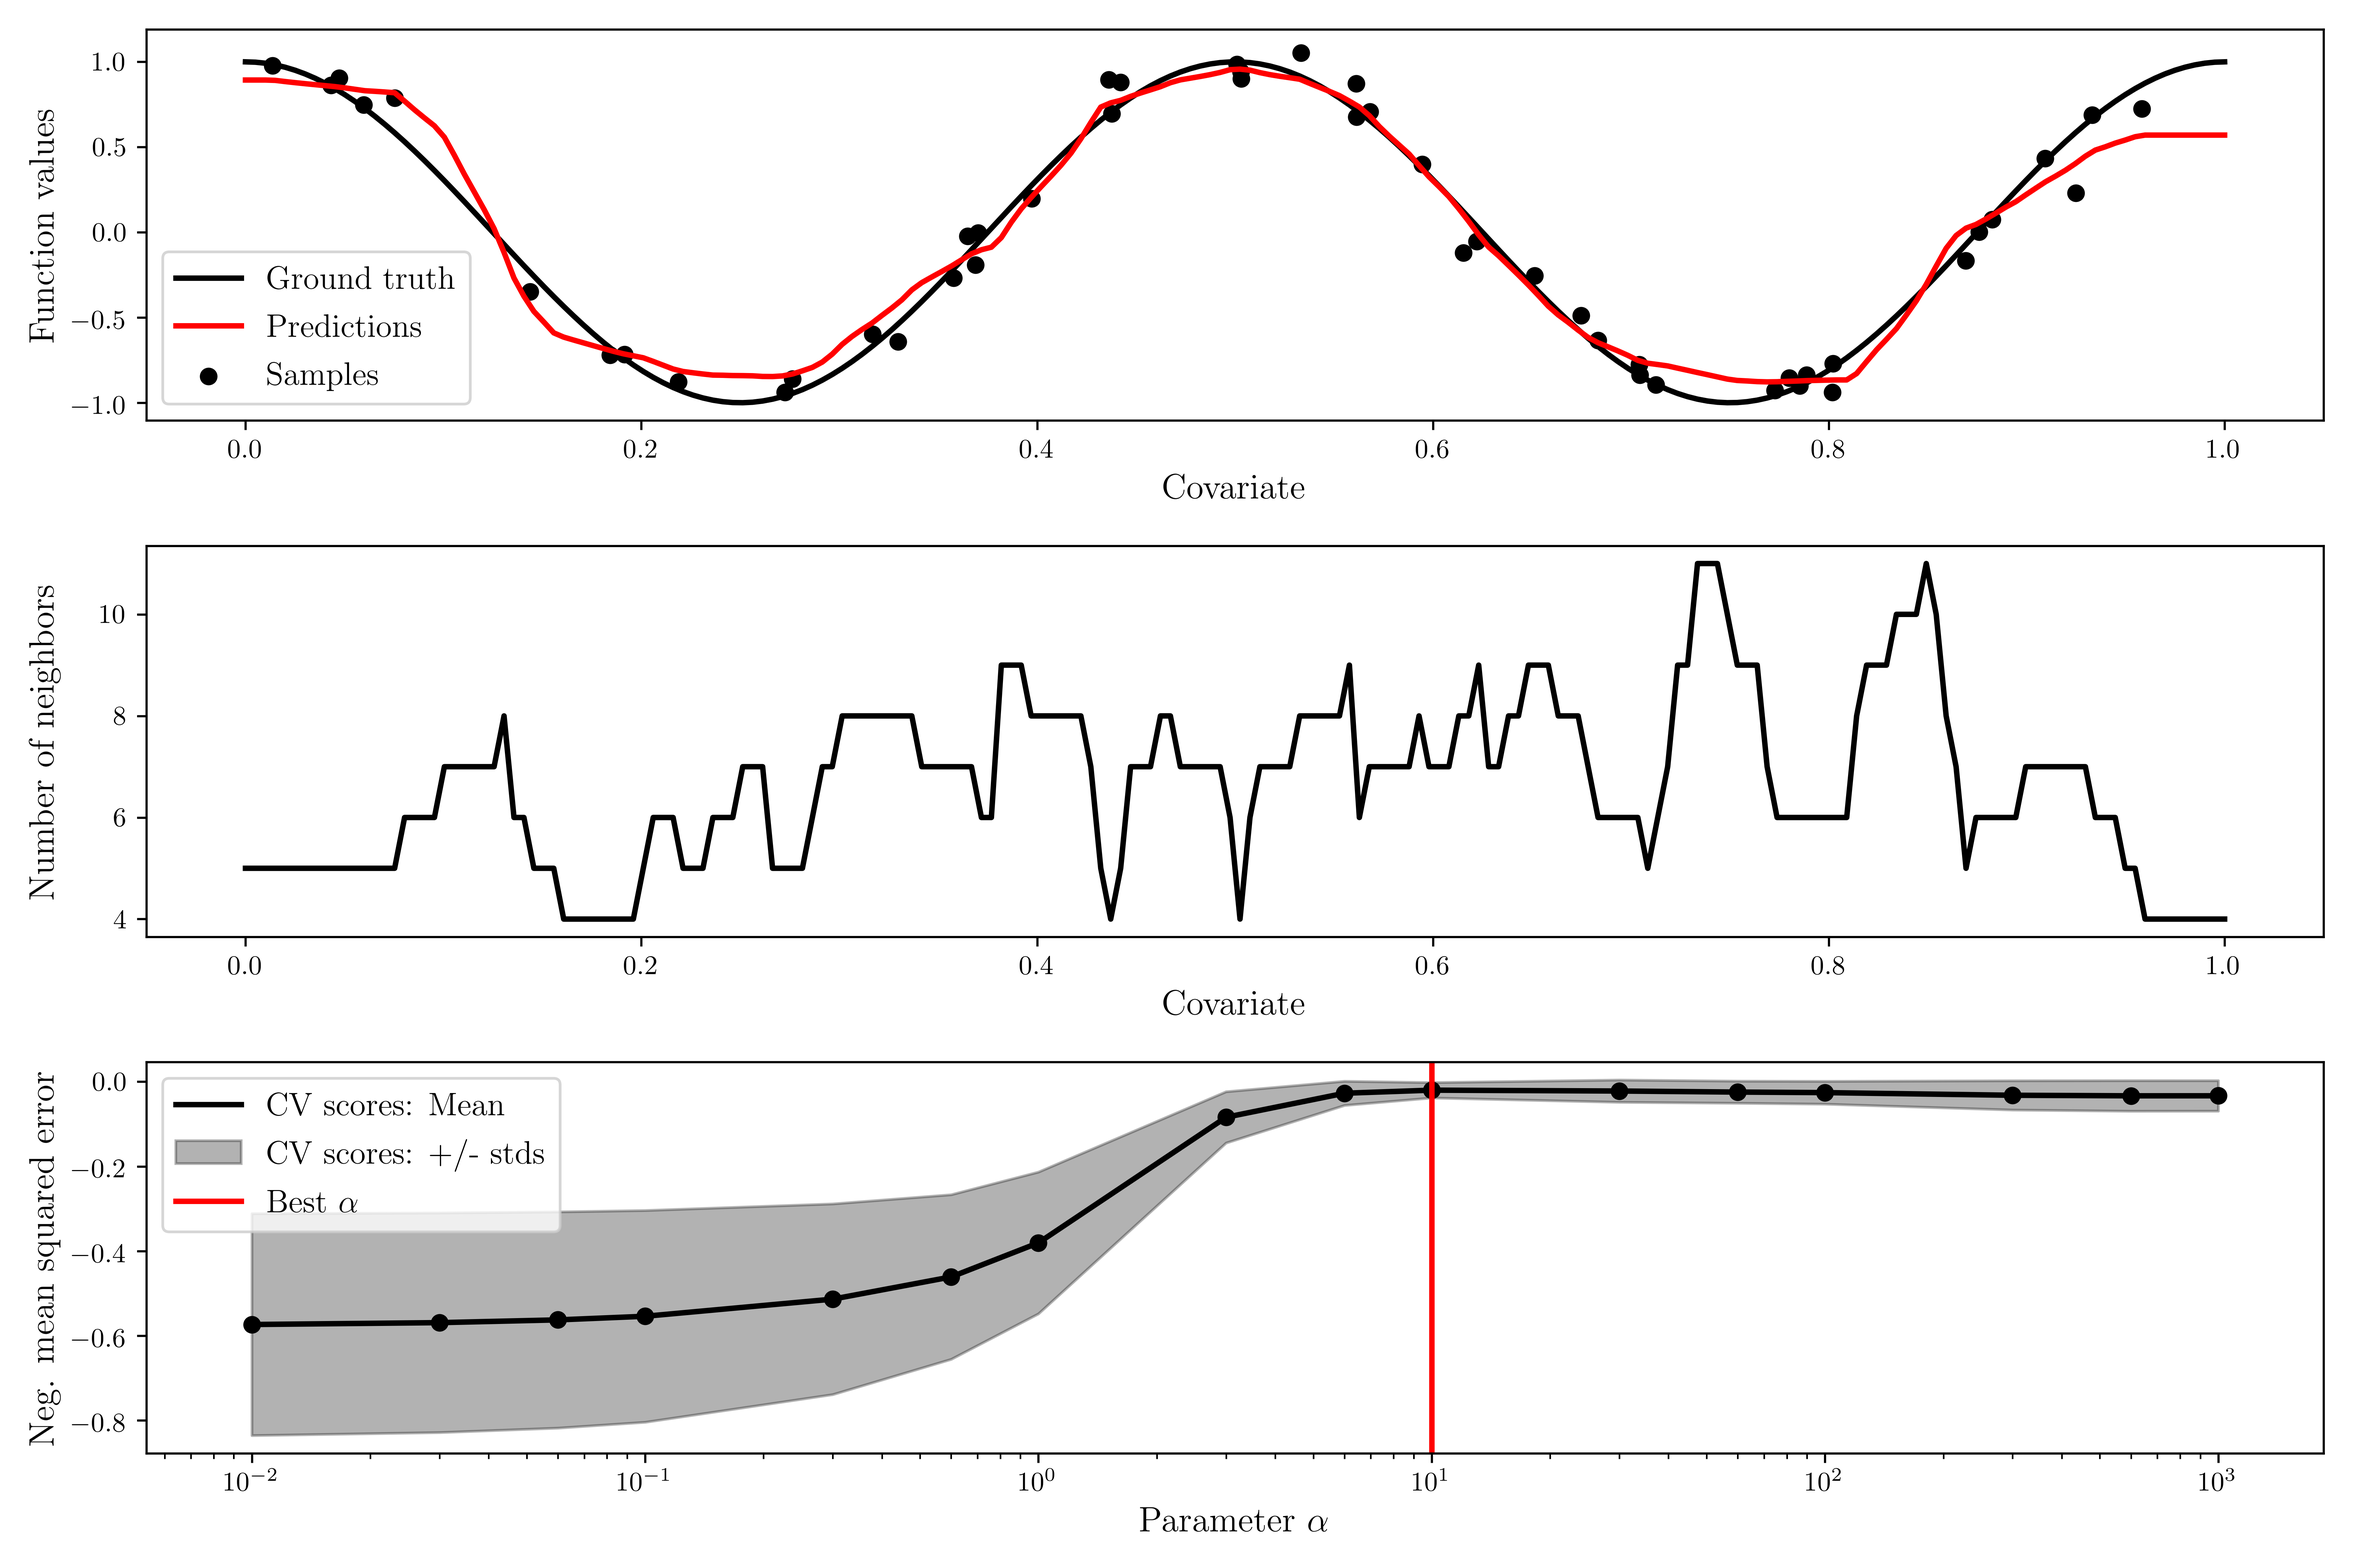
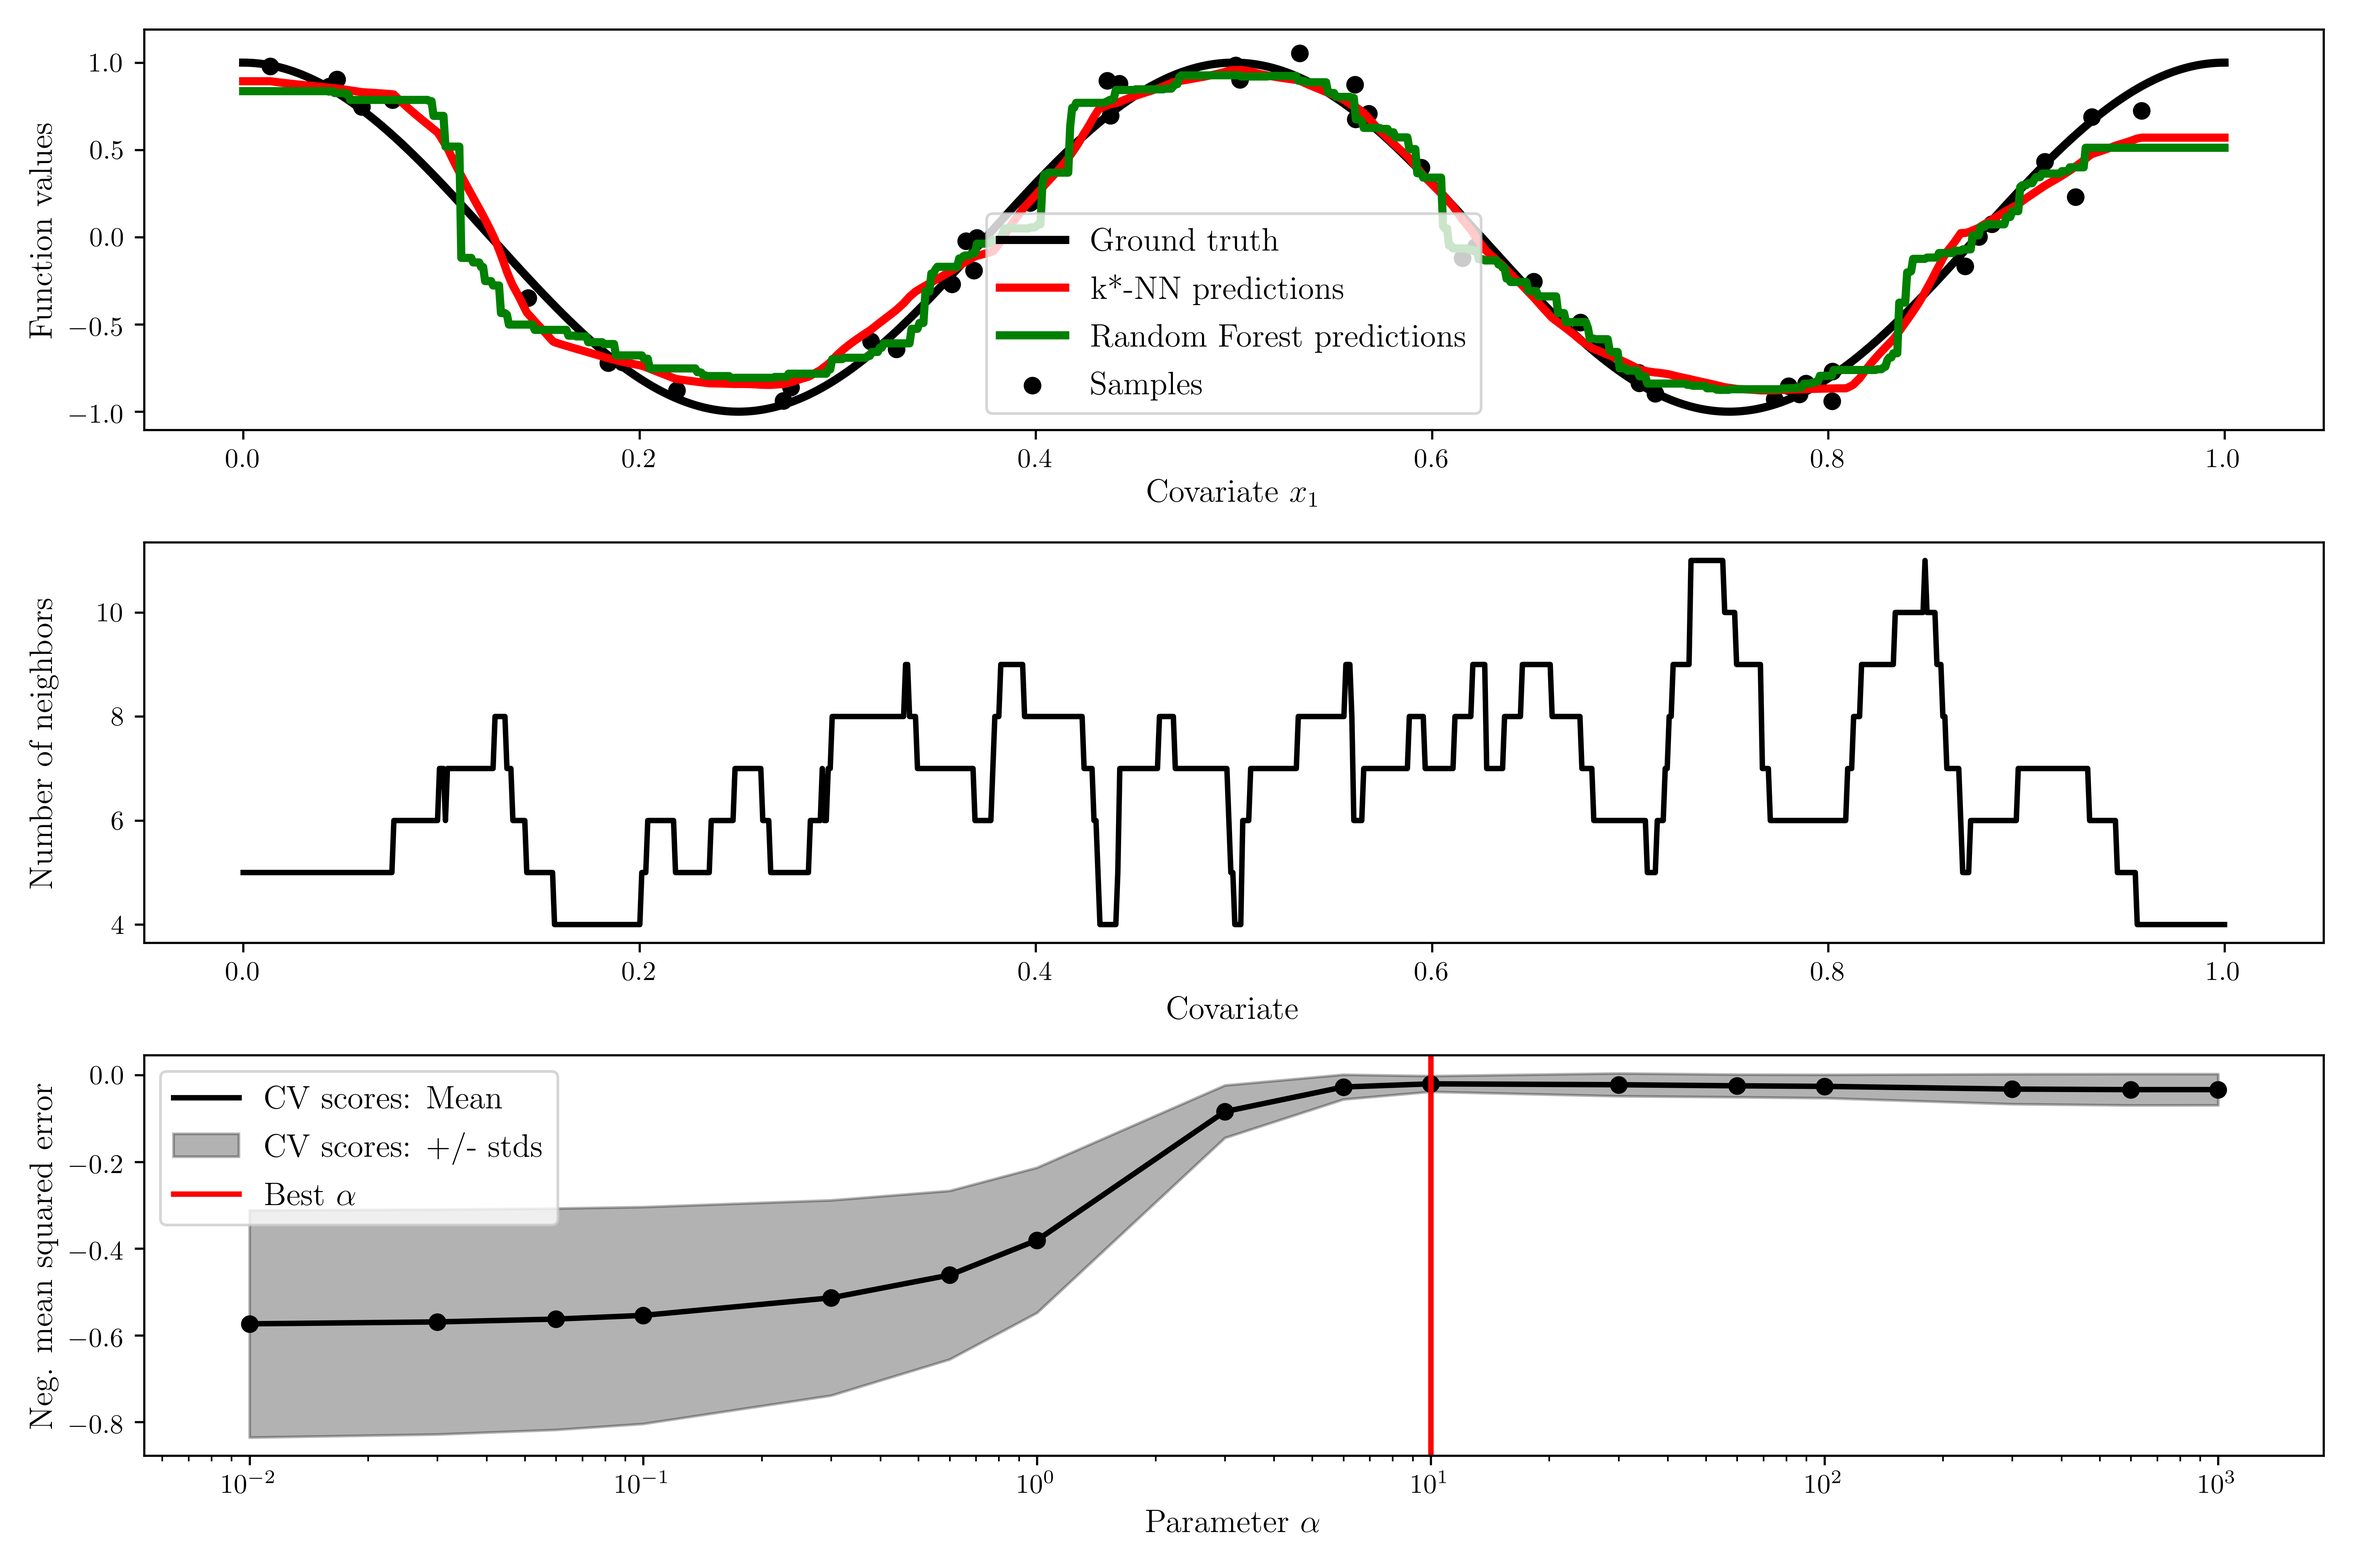
test: add sine function of x1, x2 is irrelevant

diff --git a/README.md b/README.md
@@ -21,7 +21,11 @@ for each data point whose value we wish to estimate.
 In this respect, k*-NN is data-adaptive.
 
 k*-NN was shown to beat the standard k-NN and the Nadarays-Watson estimator
-on a collection of datasets.
+on a collection of datasets. But it is not widespreadly used. Why?
+I believe the issue is that its performance degrades drastically in presence of irrelevant covariates.
+So, a preprocessing step is needed to select relevant features.
+In this respect, Random Forest works very well out-of-the-box and
+is robust to inclusion of irrelevant features.
 
 ## Dependencies
 You will need python 3 with
